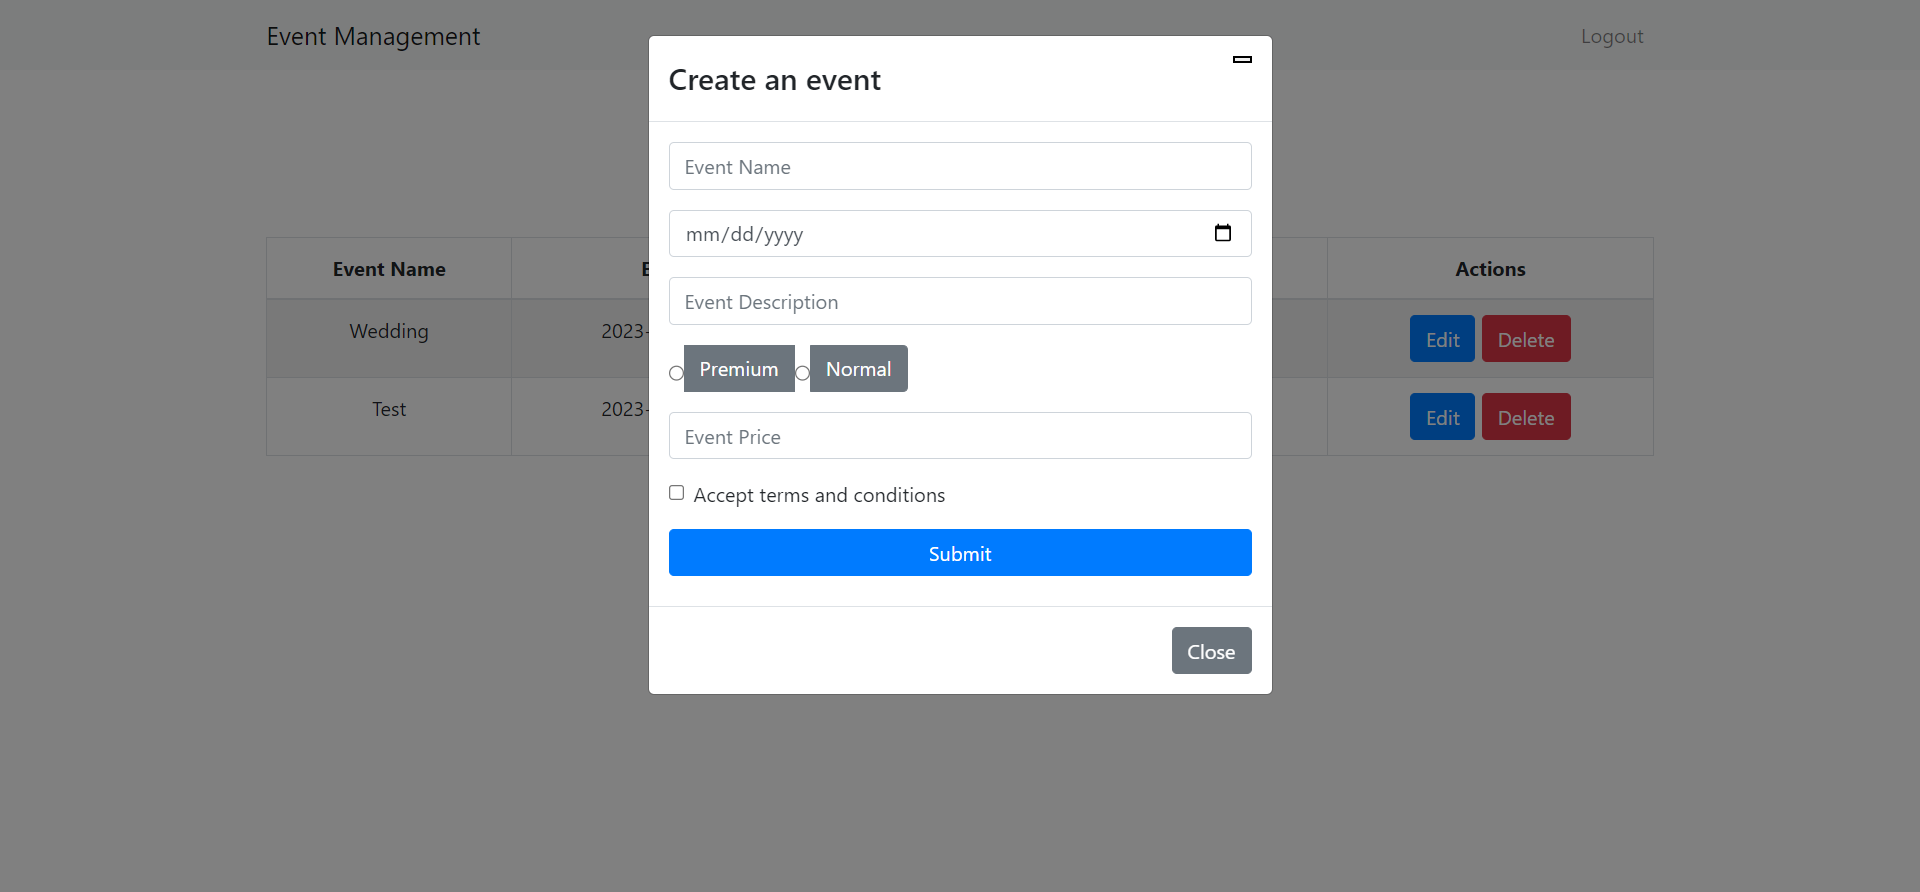
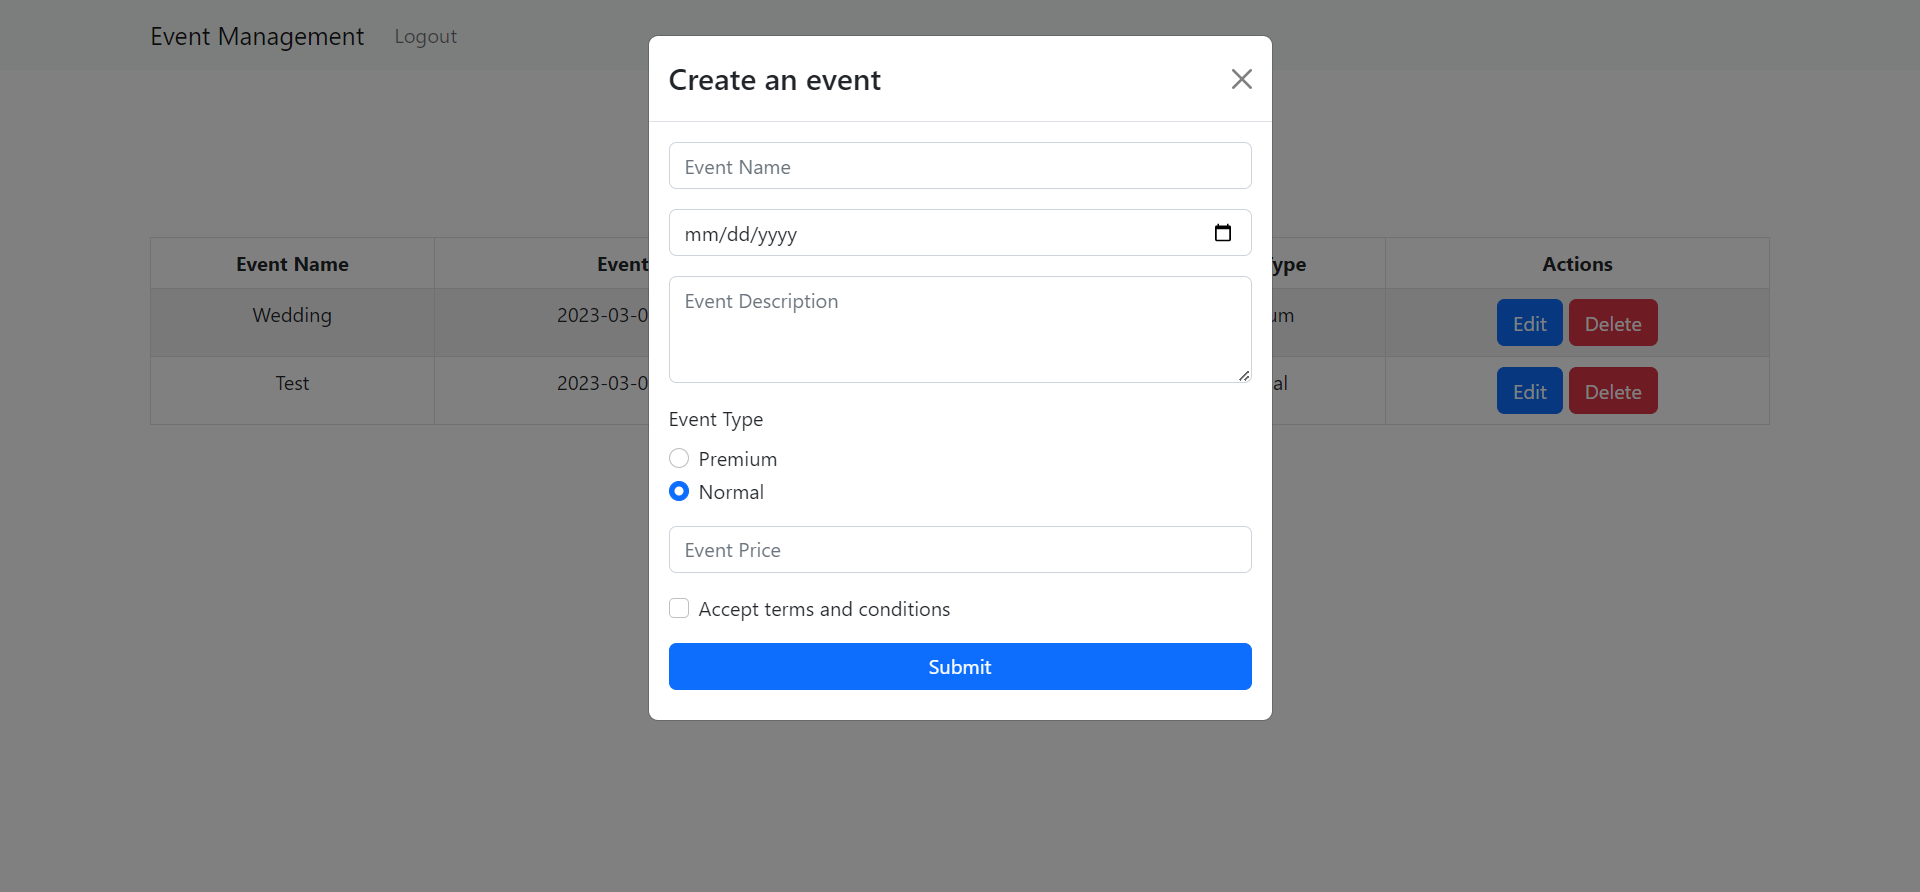
added the bootstrap css and changed button group to radio and text area for event desc

diff --git a/src/events/ManageEvents.js b/src/events/ManageEvents.js
@@ -65,7 +65,9 @@ const ManageEvents = () => {
 
   const fetchEditEvent = (event_id_data) => {
     axios
-      .post('http://localhost/work/events/get_events_id.php', {event_id: event_id_data})
+      .post('http://localhost/work/events/get_events_id.php', {
+        event_id: event_id_data,
+      })
       .then((response) => {
         const result = response?.data;
         if (result?.status?.toString() === '1') {
@@ -79,11 +81,13 @@ const ManageEvents = () => {
       .catch((error) => {
         console.log(error);
       });
-  }
+  };
 
   const fetchDeleteEvent = (event_id_data) => {
     axios
-      .post('http://localhost/work/events/delete_event.php', {event_id: event_id_data})
+      .post('http://localhost/work/events/delete_event.php', {
+        event_id: event_id_data,
+      })
       .then((response) => {
         const result = response?.data;
         if (result?.status?.toString() === '1') {
@@ -100,8 +104,8 @@ const ManageEvents = () => {
       .catch((error) => {
         console.log(error);
       });
-  }
-  
+  };
+
   return (
     <div className="App">
       <Header />
@@ -172,9 +176,13 @@ const ManageEvents = () => {
                             className="delete-btn"
                             type="button"
                             onClick={() => {
-                              if (window.confirm("Are you sure want to delete?") == true) {
+                              if (
+                                window.confirm(
+                                  'Are you sure want to delete?'
+                                ) == true
+                              ) {
                                 fetchDeleteEvent(rowData.event_id);
-                              } 
+                              }
                             }}
                           >
                             {constants.DELETE_ACTIONS_LABEL}
@@ -200,7 +208,7 @@ const ManageEvents = () => {
                 event_date: '',
                 event_desc: '',
                 event_price: 0,
-                event_type: 0,
+                event_type: '0',
                 terms: false,
               }}
               validationSchema={SignInSchema}
@@ -262,7 +270,8 @@ const ManageEvents = () => {
 
                   <Form.Group className="mb-3">
                     <Form.Control
-                      type="text"
+                      as="textarea"
+                      rows={3}
                       name="event_desc"
                       placeholder={constants.EVENT_DESC_LABEL}
                       onChange={handleChange}
@@ -273,22 +282,22 @@ const ManageEvents = () => {
                     ) : null}
                   </Form.Group>
 
-                  <ButtonGroup className="mb-2">
+                  <Form.Group  className="mb-3">
+                    <Form.Label>Event Type</Form.Label>
                     {eventTypeRadios.map((radio, idx) => (
-                      <ToggleButton
+                      <Form.Check
                         key={idx}
                         id={`radio-${idx}`}
                         type="radio"
                         variant="secondary"
+                        label={radio.name}
                         name="event_type"
                         value={radio.value}
                         checked={values.event_type === radio.value}
                         onChange={handleChange}
-                      >
-                        {radio.name}
-                      </ToggleButton>
+                      />
                     ))}
-                  </ButtonGroup>
+                  </Form.Group>
 
                   <Form.Group className="mb-3">
                     <Form.Control
@@ -338,11 +347,6 @@ const ManageEvents = () => {
               )}
             </Formik>
           </Modal.Body>
-          <Modal.Footer>
-            <Button variant="secondary" onClick={() => setShowAddEvent(false)}>
-              Close
-            </Button>
-          </Modal.Footer>
         </Modal>
 
         <Modal show={showEditEvent} onHide={() => setShowEditEvent(false)}>
@@ -421,7 +425,8 @@ const ManageEvents = () => {
 
                   <Form.Group className="mb-3">
                     <Form.Control
-                      type="text"
+                      as="textarea"
+                      rows={3}
                       name="event_desc"
                       value={values.event_desc}
                       placeholder={constants.EVENT_DESC_LABEL}
@@ -433,22 +438,22 @@ const ManageEvents = () => {
                     ) : null}
                   </Form.Group>
 
-                  <ButtonGroup className="mb-2">
+                  <Form.Group  className="mb-3">
+                    <Form.Label>Event Type</Form.Label>
                     {eventTypeRadios.map((radio, idx) => (
-                      <ToggleButton
+                      <Form.Check
                         key={idx}
                         id={`radio-${idx}`}
                         type="radio"
                         variant="secondary"
+                        label={radio.name}
                         name="event_type"
                         value={radio.value}
                         checked={values.event_type === radio.value}
                         onChange={handleChange}
-                      >
-                        {radio.name}
-                      </ToggleButton>
+                      />
                     ))}
-                  </ButtonGroup>
+                  </Form.Group>
 
                   <Form.Group className="mb-3">
                     <Form.Control
@@ -487,11 +492,6 @@ const ManageEvents = () => {
               )}
             </Formik>
           </Modal.Body>
-          <Modal.Footer>
-            <Button variant="secondary" onClick={() => setShowEditEvent(false)}>
-              Close
-            </Button>
-          </Modal.Footer>
         </Modal>
       </section>
     </div>

diff --git a/public/index.html b/public/index.html
@@ -10,13 +10,6 @@
       content="Web site created using create-react-app"
     />
     <link rel="apple-touch-icon" href="%PUBLIC_URL%/logo192.png" />
-    <!-- Bootstrap CSS -->
-    <link
-      rel="stylesheet"
-      href="https://cdn.jsdelivr.net/npm/bootstrap@4.3.1/dist/css/bootstrap.min.css"
-      integrity="sha384-ggOyR0iXCbMQv3Xipma34MD+dH/1fQ784/j6cY/iJTQUOhcWr7x9JvoRxT2MZw1T"
-      crossorigin="anonymous"
-    />
     <!--
       manifest.json provides metadata used when your web app is installed on a
       user's mobile device or desktop. See https://developers.google.com/web/fundamentals/web-app-manifest/

diff --git a/src/index.js b/src/index.js
@@ -9,6 +9,7 @@ import Register from './Register';
 import ErrorManager from './ErrorManager';
 import { store } from './store/Store';
 import { Provider } from 'react-redux';
+import 'bootstrap/dist/css/bootstrap.css'
 
 const root = ReactDOM.createRoot(document.getElementById('root'));
 root.render(
